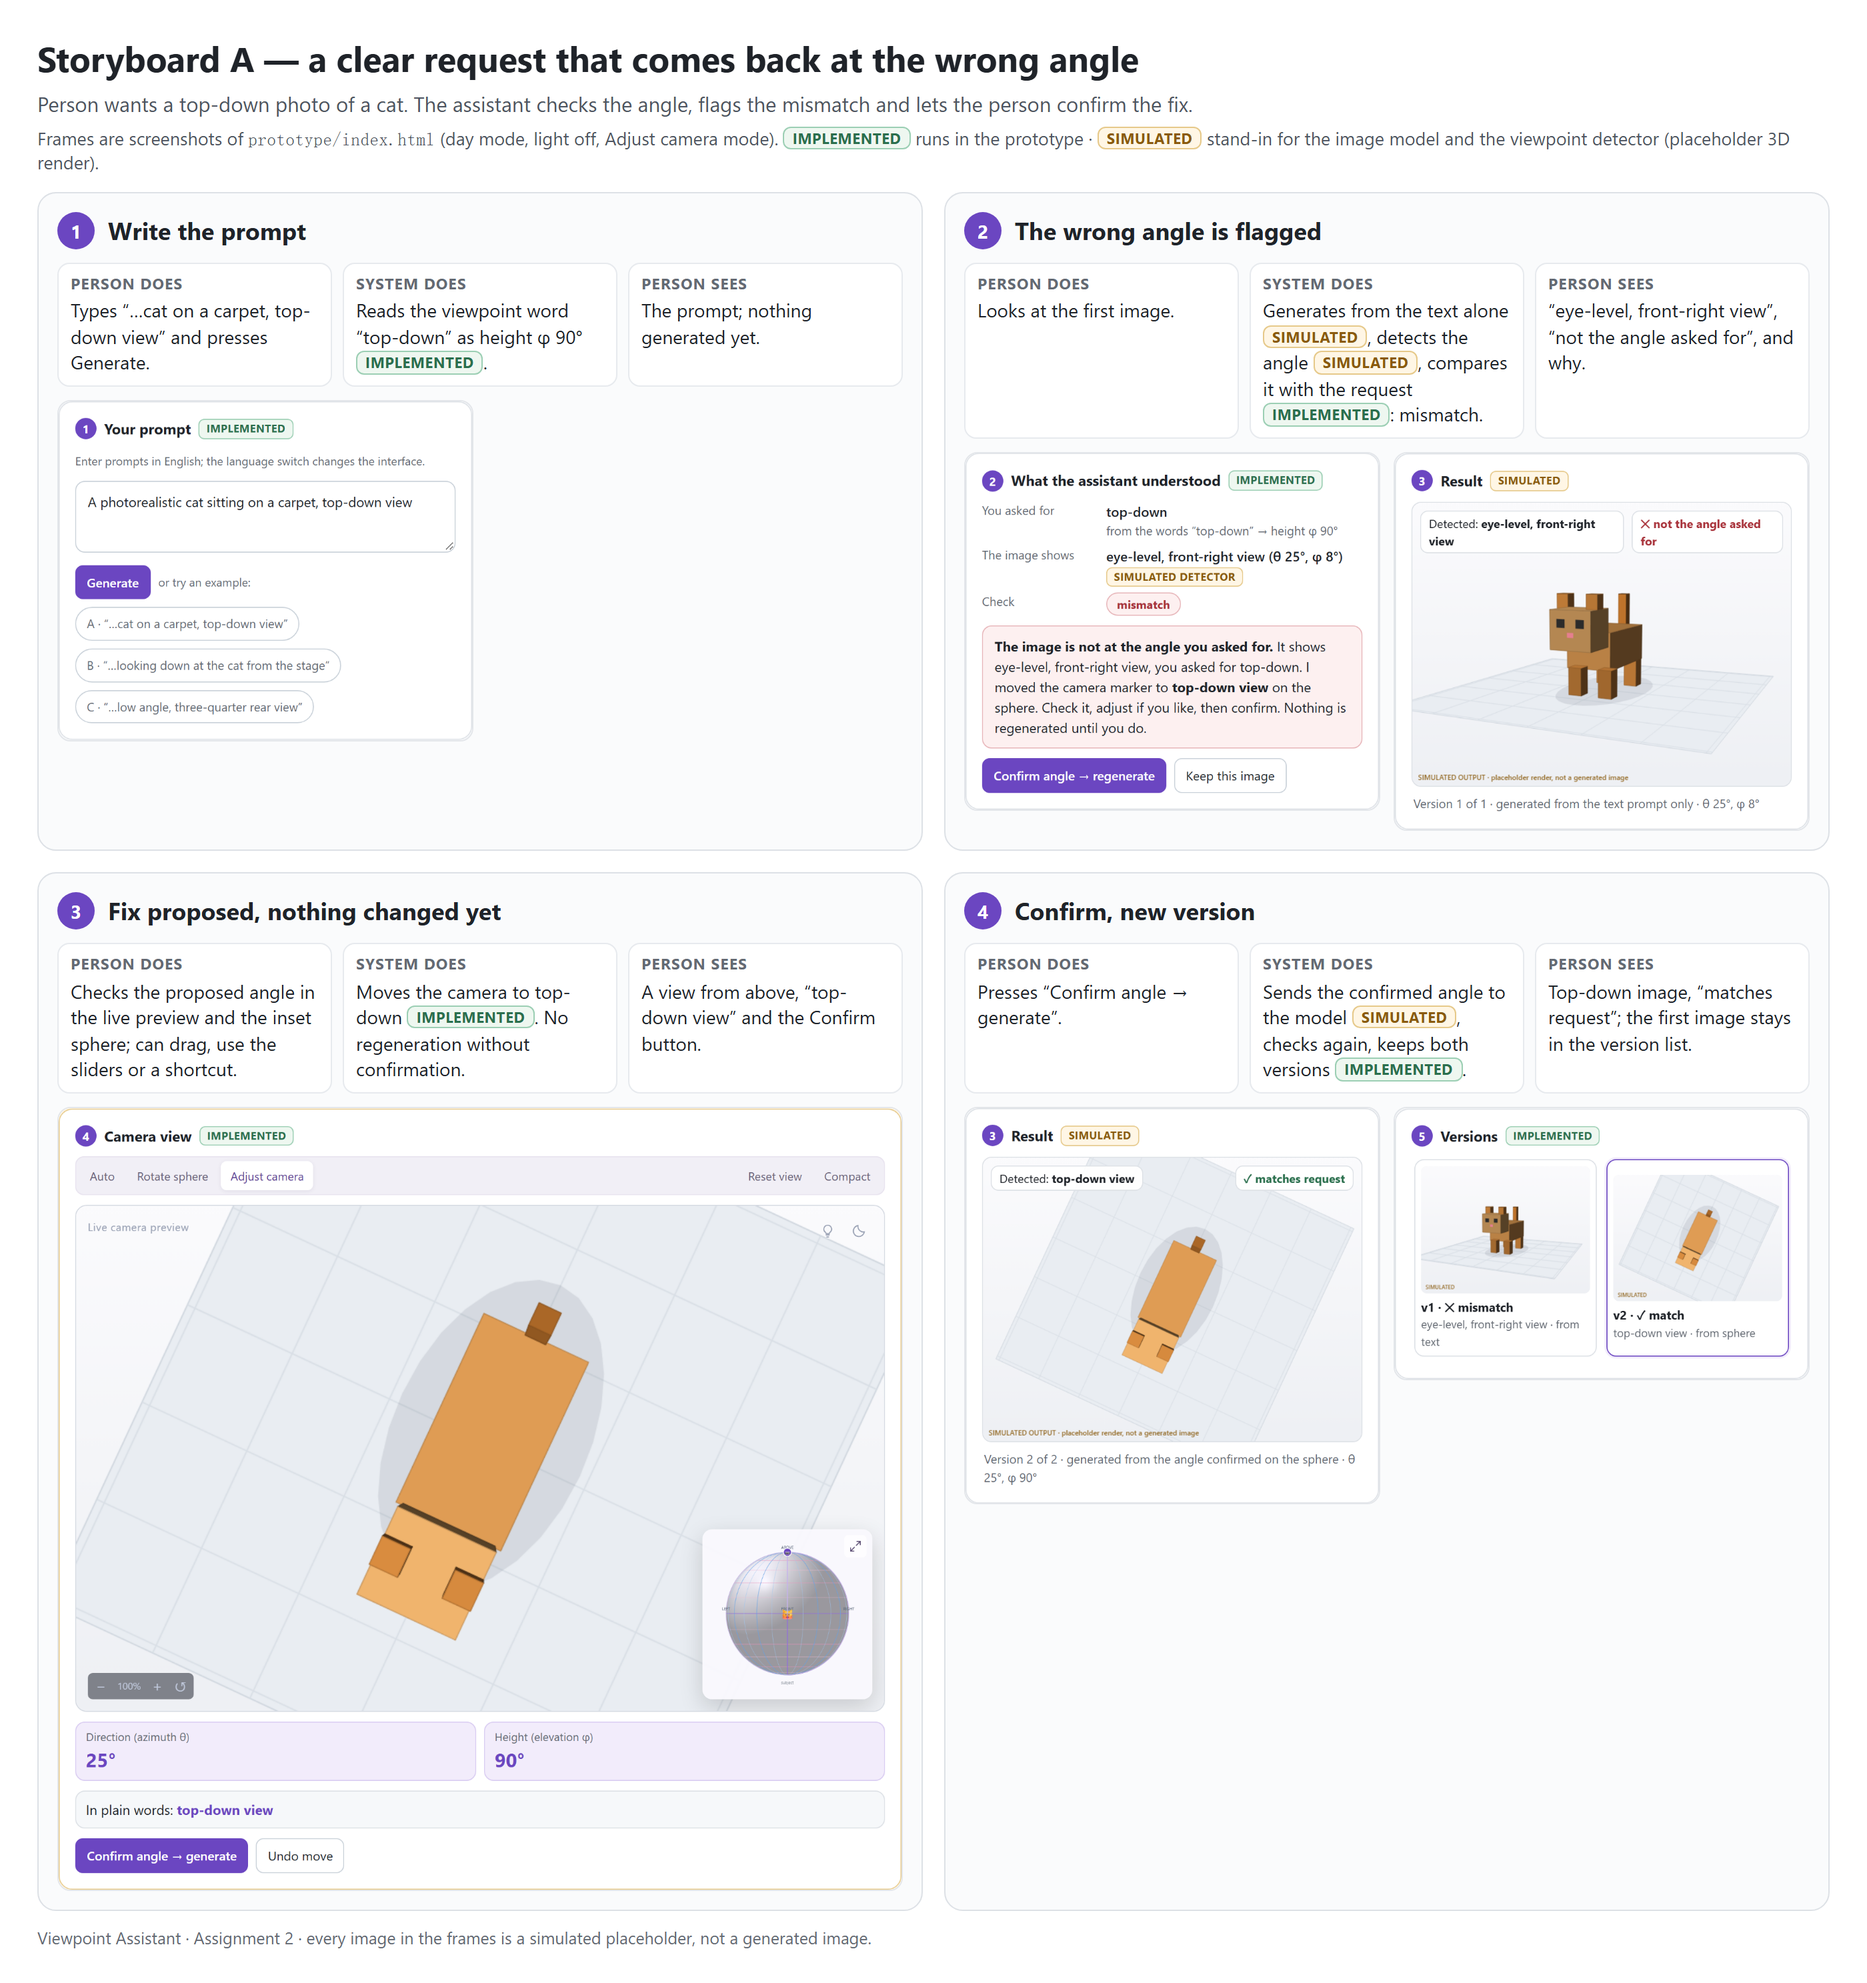
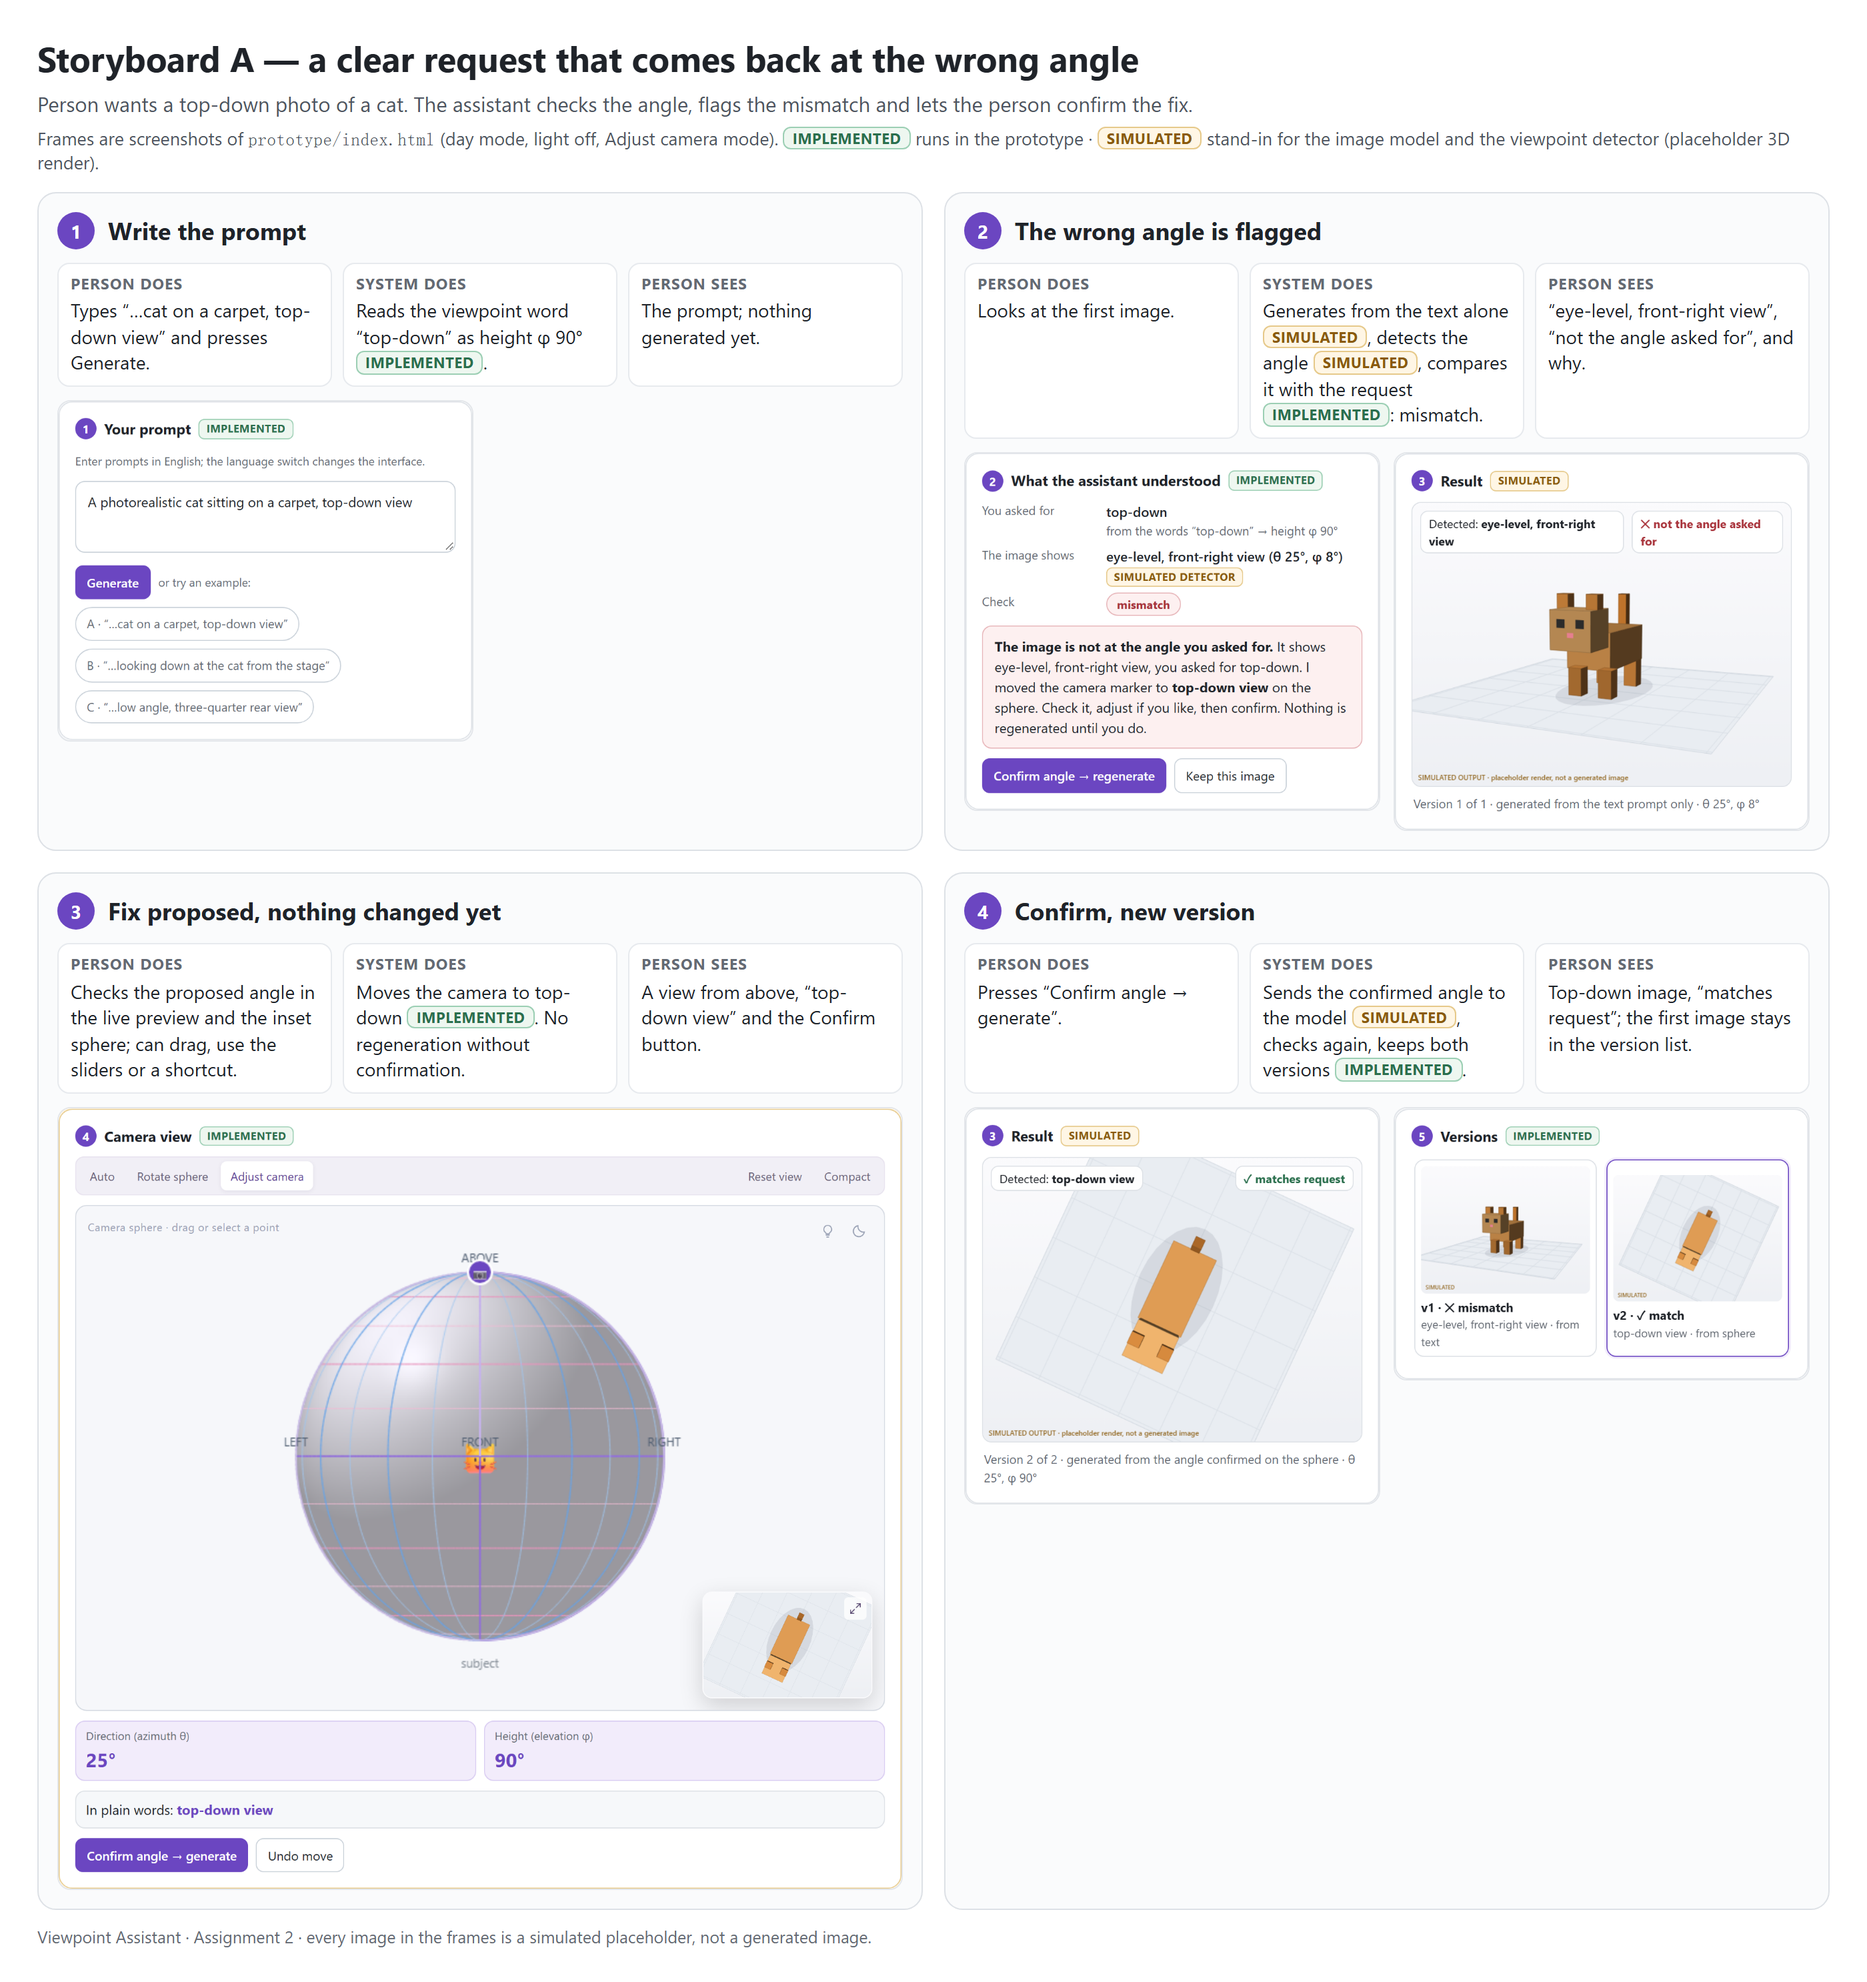
Make the sphere the default main view; fix the stage label after mode changes
The cat preview starts in the inset. Re-shoot the three storyboards.

diff --git a/prototype/app.js b/prototype/app.js
@@ -706,7 +706,7 @@
     sphere.classList.remove('dragging');
     interactionMode = mode;
     previewTarget = mode === 'light' ? 'light' : 'camera';
-    $('previewModeLabel').textContent = mode === 'light' ? 'Drag the light around the sphere' : 'Live camera preview';
+    $('previewModeLabel').textContent = mode === 'light' ? 'Drag the light around the sphere' : mainSurface === 'sphere' ? 'Camera sphere · drag or select a point' : 'Live camera preview';
     $('lightControls').open = mode === 'light';
     animatePreviewZoom(mode === 'light' ? 0.38 : 1);
     [['btnAutoMode', 'auto'], ['btnRotateMode', 'rotate'], ['btnCameraMode', 'camera'], ['btnLightMode', 'light']].forEach(function (entry) {
@@ -800,7 +800,8 @@
     else if(e.key === '0') { e.preventDefault();setPreviewZoom(1); }
   });
 
-  $('btnSwapView').addEventListener('click', function () {
+  $('btnSwapView').addEventListener('click', function () { swapView(true); });
+  function swapView(focus) {
     if (dragSurface) return;
     var stage=$('cameraStage'), inset=$('viewInset');
     var big=mainSurface==='preview' ? $('cameraPreview') : sphere;
@@ -811,9 +812,9 @@
     $('zoomLevel').parentElement.hidden=mainSurface==='sphere';
     $('previewModeLabel').textContent=mainSurface==='sphere' ? 'Camera sphere · drag or select a point' : 'Live camera preview';
     small.tabIndex=0;big.tabIndex=-1;
-    small.focus({preventScroll:true});
+    if (focus) small.focus({preventScroll:true});
     drawSphere();
-  });
+  }
 
   // The large view and inset share one selected camera pose.
   var preview = $('cameraPreview'), previewDrag = null;
@@ -904,5 +905,5 @@
     drawSphere(); renderResult(); renderThumbs();
   });
   renderEmpty($('result'));
-  drawSphere();
+  swapView(false); // the sphere is the main view by default; the cat preview sits in the inset
 })();
